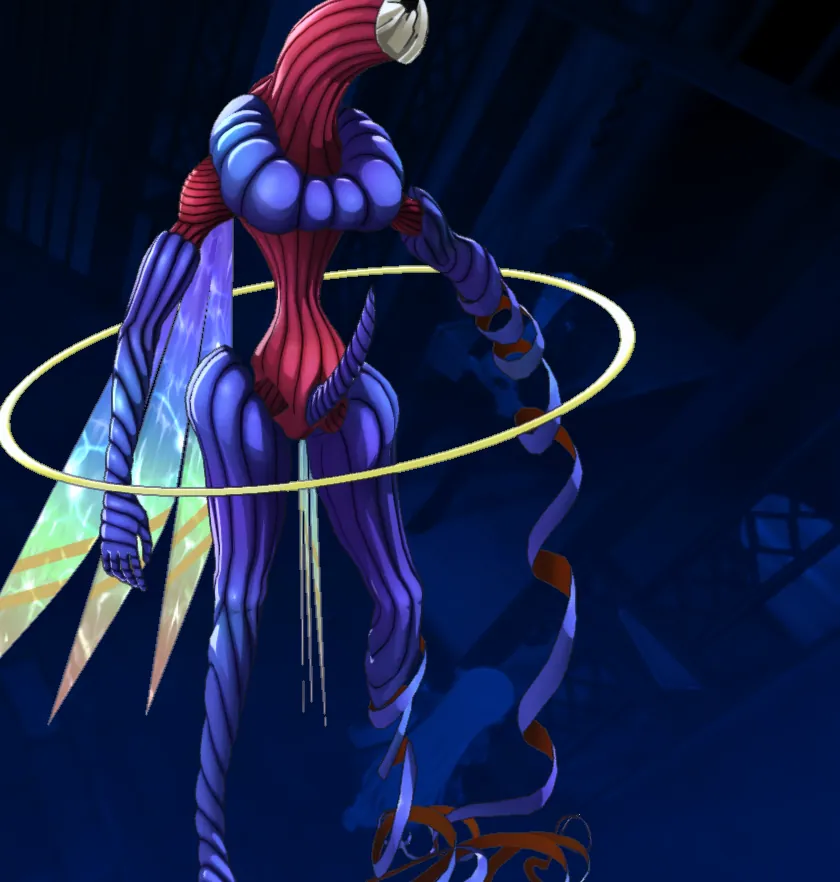
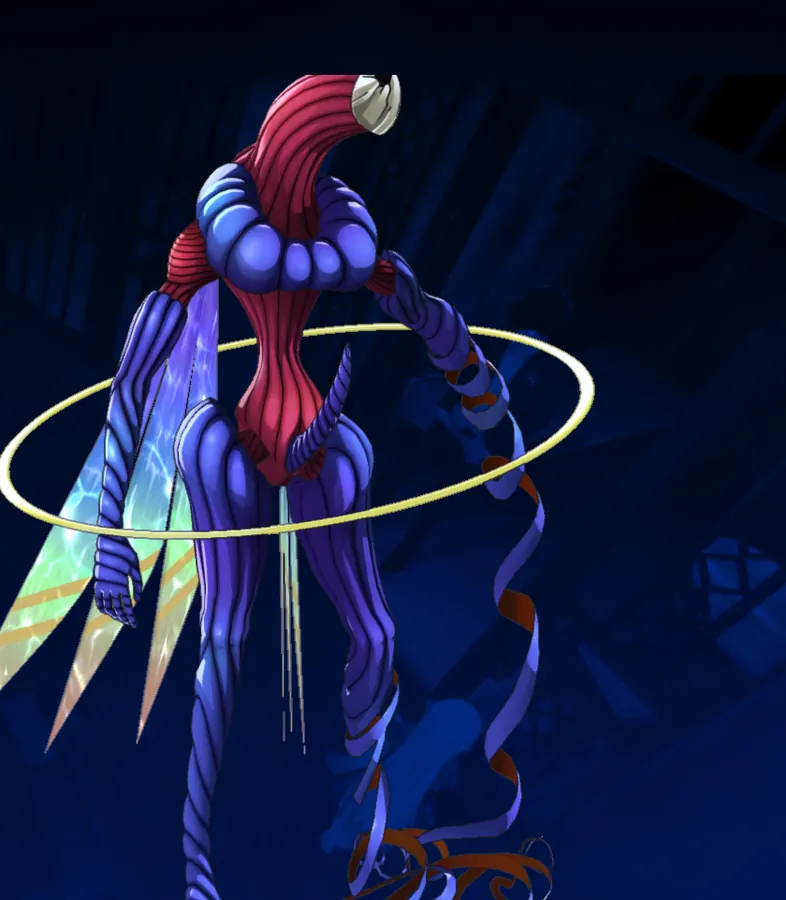
Fotos: encuadres de Naberius, Okuninushi, Pisaca, Set, Shiki-Ouji, Sigfrido, Tam Lin, Unicornio y Vohu Manah; Andras como antes
Claude-Session: https://claude.ai/code/session_01TLD9DxtzdAPGjt2ektcgBd

diff --git a/src/games/p5r/services/images.ts b/src/games/p5r/services/images.ts
@@ -25,7 +25,6 @@ export const personaImage = (id: string, view: 'profile' | 'side'): string | und
 const CARD_FOCUS: Record<string, string> = {
   'cu-chulainn': '50% 0%',
   'fuu-ki': '50% 0%',
-  'andras': '50% 0%',
   'hariti': '50% 0%',
   'izanagi': '50% 0%',
   'izanagi-picaro': '50% 0%',
@@ -39,5 +38,23 @@ const CARD_FOCUS: Record<string, string> = {
   'messiah': '50% 0%',
   'moloch': '50% 0%',
   'magatsu-izanagi': '35% 0%',
+  'nebiros': '50% 0%',
+  'okuninushi': '50% 0%',
+  'pisaca': '50% 0%',
+  'shiki-ouji': '50% 0%',
+  'siegfried': '50% 0%',
+  'tam-lin': '50% 0%',
+  'vohu-manah': '50% 0%',
 };
 export const personaCardFocus = (id: string): string => CARD_FOCUS[id] ?? '50% 30%';
+
+/** Encuadre de la foto en la ficha de la Persona: por defecto 50% 30%. */
+const PROFILE_FOCUS: Record<string, string> = {
+  nebiros: '50% 0%',
+  okuninushi: '50% 0%',
+  'shiki-ouji': '50% 0%',
+  'vohu-manah': '50% 0%',
+  seth: '100% 0%',
+  unicorn: '100% 30%',
+};
+export const personaProfileFocus = (id: string): string => PROFILE_FOCUS[id] ?? '50% 30%';

diff --git a/src/games/p5r/pages/PersonaProfile.tsx b/src/games/p5r/pages/PersonaProfile.tsx
@@ -3,7 +3,7 @@ import { Link, useParams } from 'react-router-dom';
 import { getFusionEngine } from '../services/fusion';
 import { BackButton } from '../../../shared/components/BackButton';
 import { ImagePlaceholder } from '../../../shared/components/ImagePlaceholder';
-import { personaImage } from '../services/images';
+import { personaImage, personaProfileFocus } from '../services/images';
 import { SectionTitle } from '../../../shared/components/SectionTitle';
 import { AffinityGrid } from '../components/AffinityGrid';
 import { ElectricChair } from '../components/ElectricChair';
@@ -144,7 +144,7 @@ export default function PersonaProfile() {
           <ImagePlaceholder
             className={styles.image}
             src={personaImage(p.id, 'profile')}
-            focus="50% 30%"
+            focus={personaProfileFocus(p.id)}
             label={personaImage(p.id, 'profile') ? personaName(p) : 'Acá va la imagen de la Persona'}
             hint="Formato sugerido: PNG transparente · 600 × 800"
             corner={arcana.numeral}
